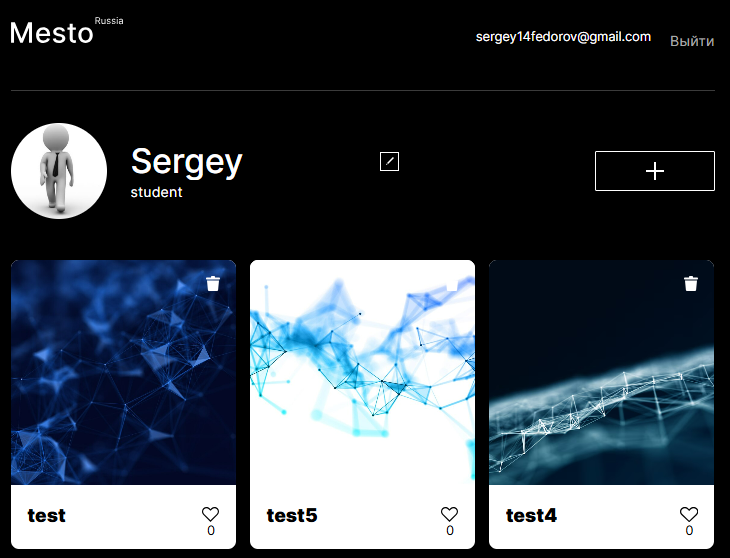
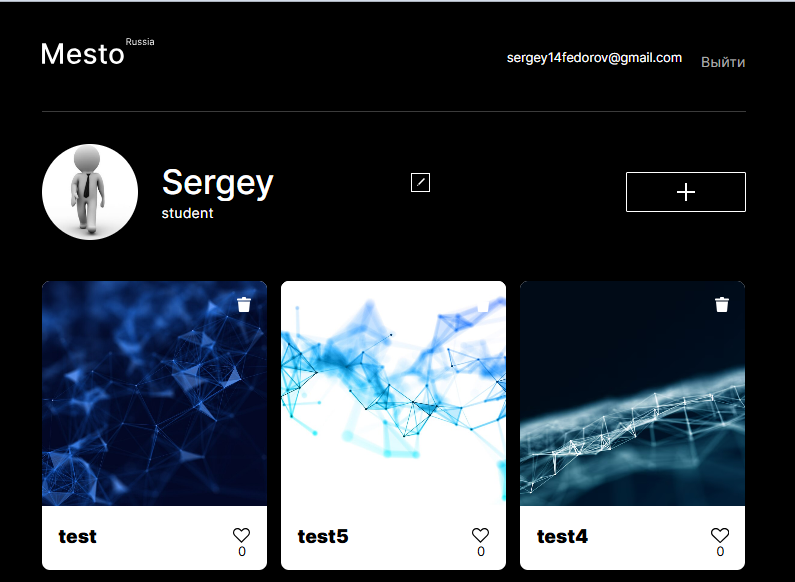
fix images

diff --git a/data/index.ts b/data/index.ts
@@ -73,14 +73,14 @@ export const projects = [
   {
     id: 1,
     title: 'Book Library App',
-    des: 'Приложение для управления библиотекой книг, которое предоставляет пользователям возможности добавления, фильтрации, удаления и пометки книг как избранных.',
-    img: '/books-library.png',
+    des: 'A book library management application that provides users with the ability to add, filter, delete and mark books as favorites.',
+    img: '/books.png',
     iconLists: [
       '/react.svg',
       '/redux-icon.svg',
       '/typescript.svg',
       '/nodej.svg',
-      '/express.svg',
+      // '/express.svg',
       '/sass.svg',
     ],
     link: 'https://github.com/7Sergey/Book-Library-App-TypeScript',
@@ -88,7 +88,7 @@ export const projects = [
   {
     id: 2,
     title: 'Mesto',
-    des: 'Одностраничное приложение с карточками.',
+    des: 'Single page application.An application with functionality that allows you to change the name and description of a users profile, add new cards, put likes on cards and open a window with an enlarged image.',
     img: '/mesto.PNG',
     iconLists: ['/js.svg', '/html.svg', '/css.svg'],
     link: 'https://github.com/7Sergey/react-mesto-api-full-gha',
@@ -96,7 +96,7 @@ export const projects = [
   {
     id: 3,
     title: 'Russian travel',
-    des: 'Одностраничный сайт о путешествиях по стране с использованием HTML, CSS и CSS Grid Layout.',
+    des: 'A one-page website about traveling across the country using HTML, CSS and CSS Grid Layout.',
     img: '/russian-travel.PNG',
     iconLists: ['/html.svg', '/css.svg'],
     link: 'https://github.com/7Sergey/russian-travel',
